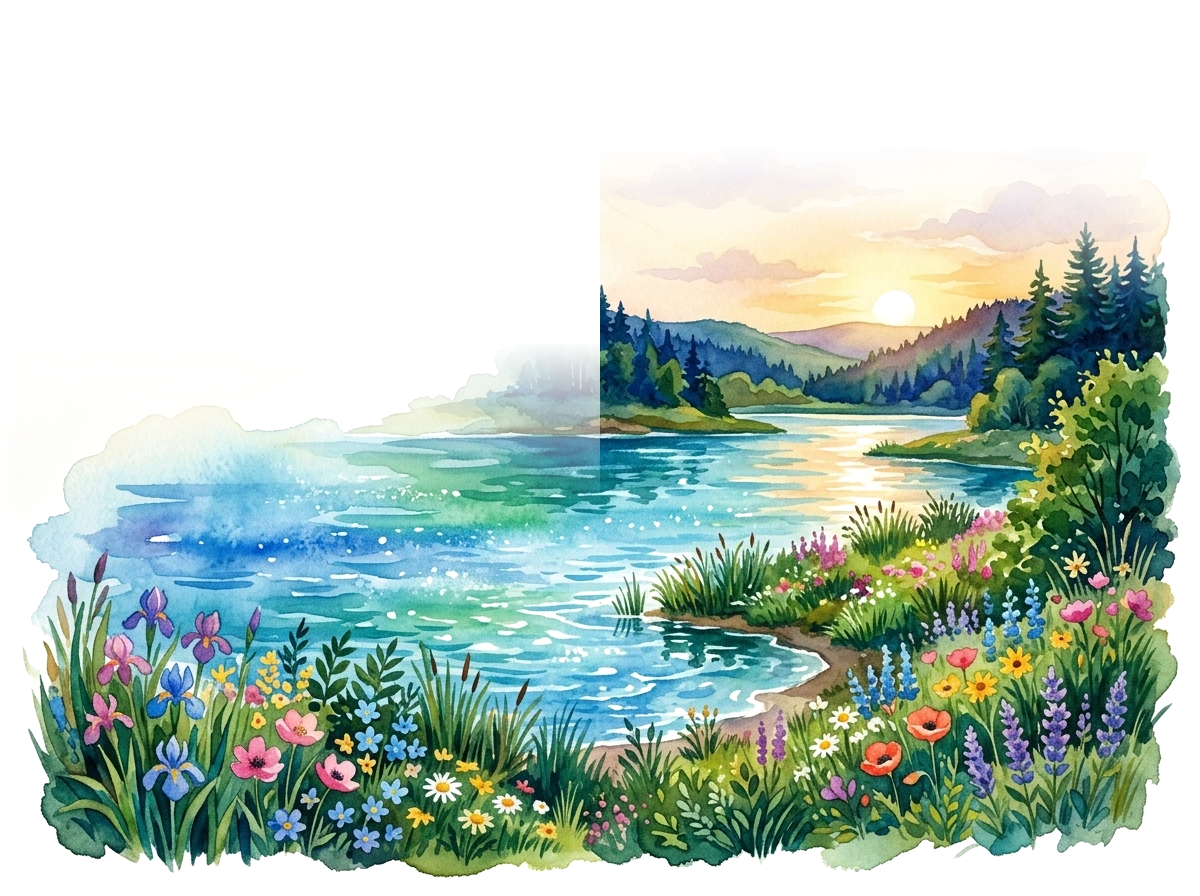
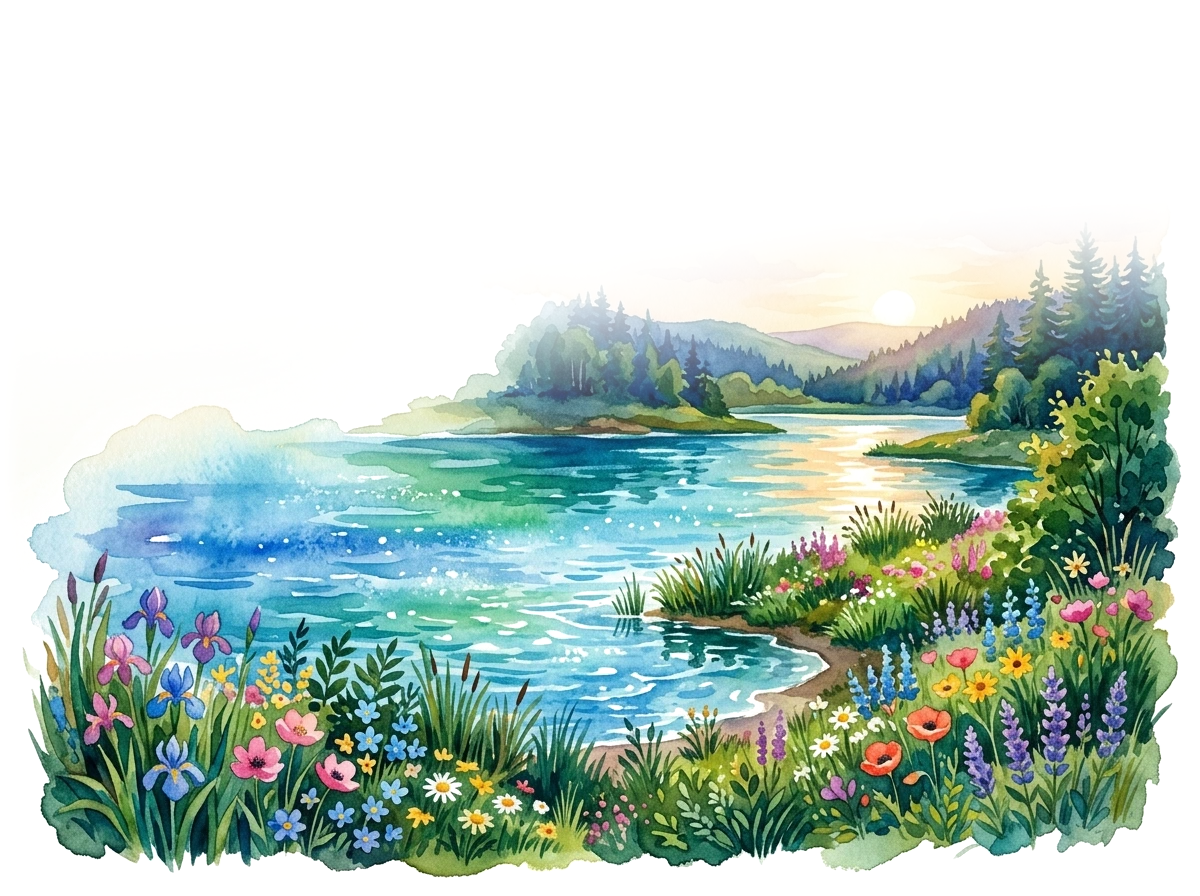
시화 경계선 개선: 책등 중앙 수직 절단선 제거 및 완만한 안개 곡선 페이드 적용

Changed region(s): [[0.2775, 0.2188, 0.9867, 0.5625]]

diff --git a/learning/literacy-numeracy/poetry/index.html b/learning/literacy-numeracy/poetry/index.html
@@ -8,10 +8,10 @@
     <link rel="preconnect" href="https://fonts.googleapis.com">
     <link rel="preconnect" href="https://fonts.gstatic.com" crossorigin>
     <link href="https://fonts.googleapis.com/css2?family=Gowun+Batang:wght@400;700&family=Noto+Serif+KR:wght@400;500;600;700&family=Roboto+Slab:wght@400;500;700&display=swap" rel="stylesheet">
-    <link rel="stylesheet" href="styles.css?v=20260910-hosuart2">
-    <script src="poems-index.js?v=20260910-hosuart2" defer></script>
-    <script src="lessons.js?v=20260910-hosuart2" defer></script>
-    <script src="app.js?v=20260910-hosuart2" defer></script>
+    <link rel="stylesheet" href="styles.css?v=20260910-smoothmist1">
+    <script src="poems-index.js?v=20260910-smoothmist1" defer></script>
+    <script src="lessons.js?v=20260910-smoothmist1" defer></script>
+    <script src="app.js?v=20260910-smoothmist1" defer></script>
 </head>
 <body>
     <div class="top-bar">

diff --git a/learning/literacy-numeracy/poetry/app.js b/learning/literacy-numeracy/poetry/app.js
@@ -305,7 +305,7 @@
         if (poem.illustration) {
             artHtml = `
                 <div class="read-spread-art" aria-hidden="true">
-                    <img class="read-spread-art-img" src="${escapeHtml(poem.illustration)}" alt="" />
+                    <img class="read-spread-art-img" src="${escapeHtml(poem.illustration)}?v=20260910-smoothmist" alt="" />
                 </div>
             `;
         }

diff --git a/learning/literacy-numeracy/poetry/styles.css b/learning/literacy-numeracy/poetry/styles.css
@@ -512,7 +512,8 @@ a {
 }
 
 .story-page-left {
-    border-right: 1px solid rgba(92, 58, 34, 0.22);
+    border-right: 1px solid rgba(92, 58, 34, 0.12);
+    box-shadow: inset -2px 0 4px -2px rgba(92, 58, 34, 0.15);
 }
 
 .page-head-kicker {
